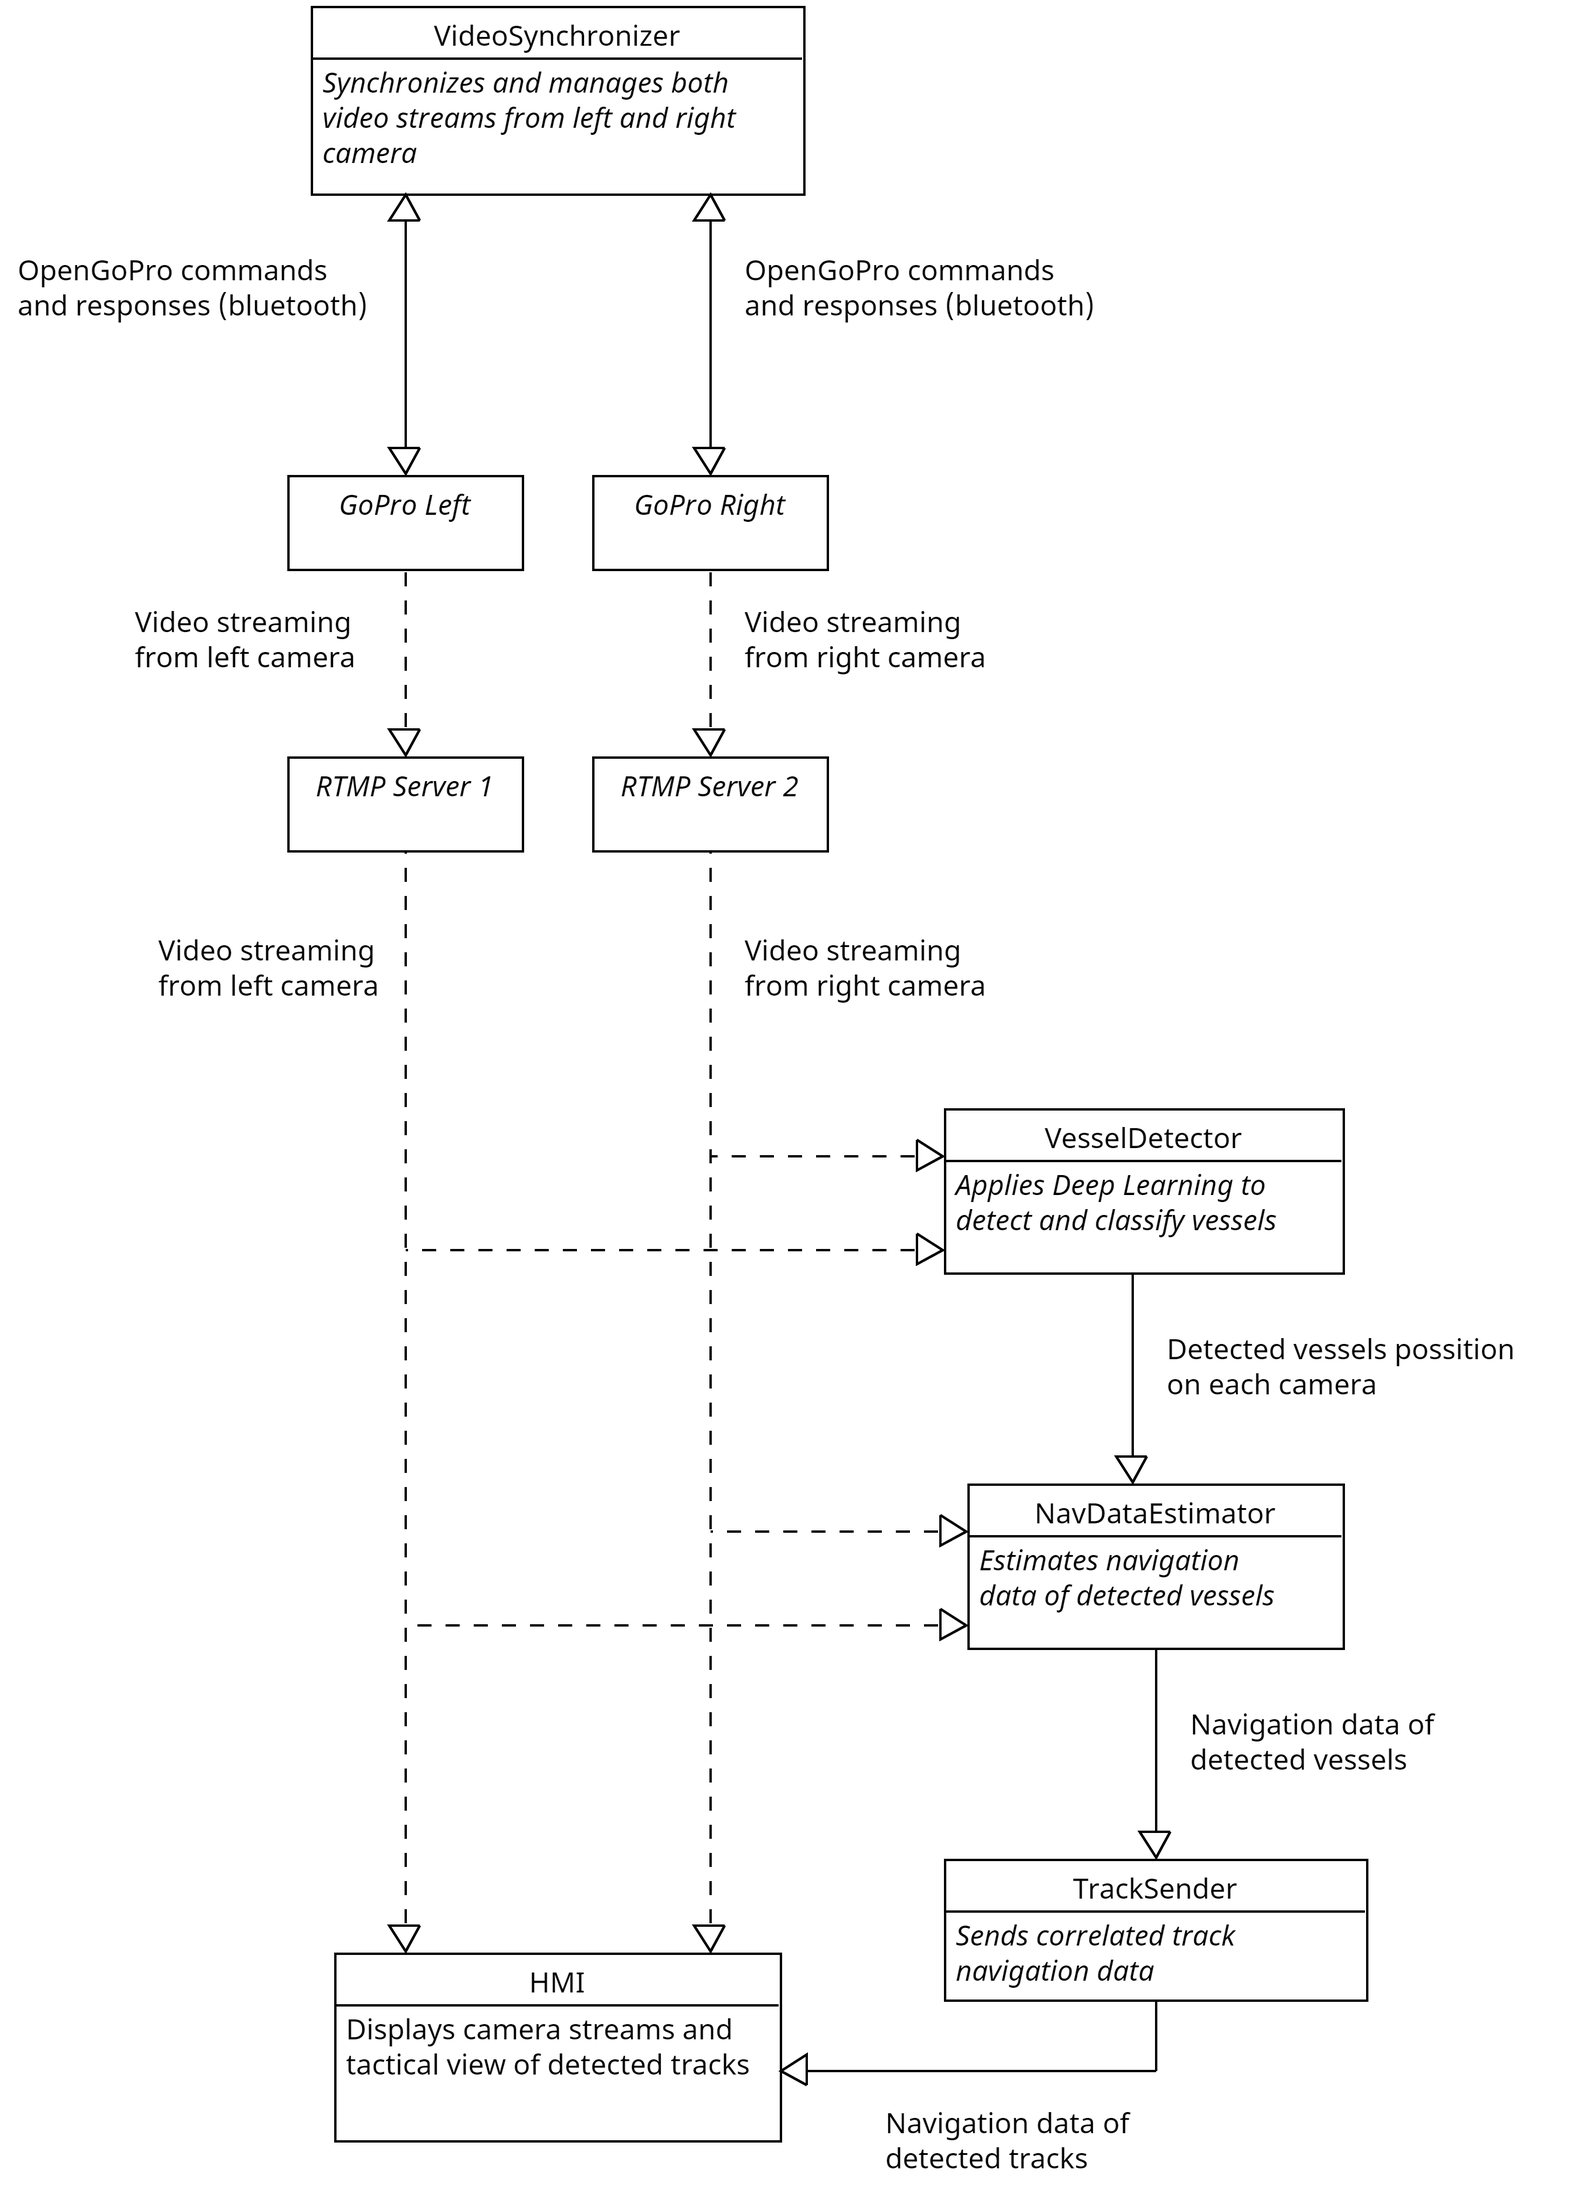
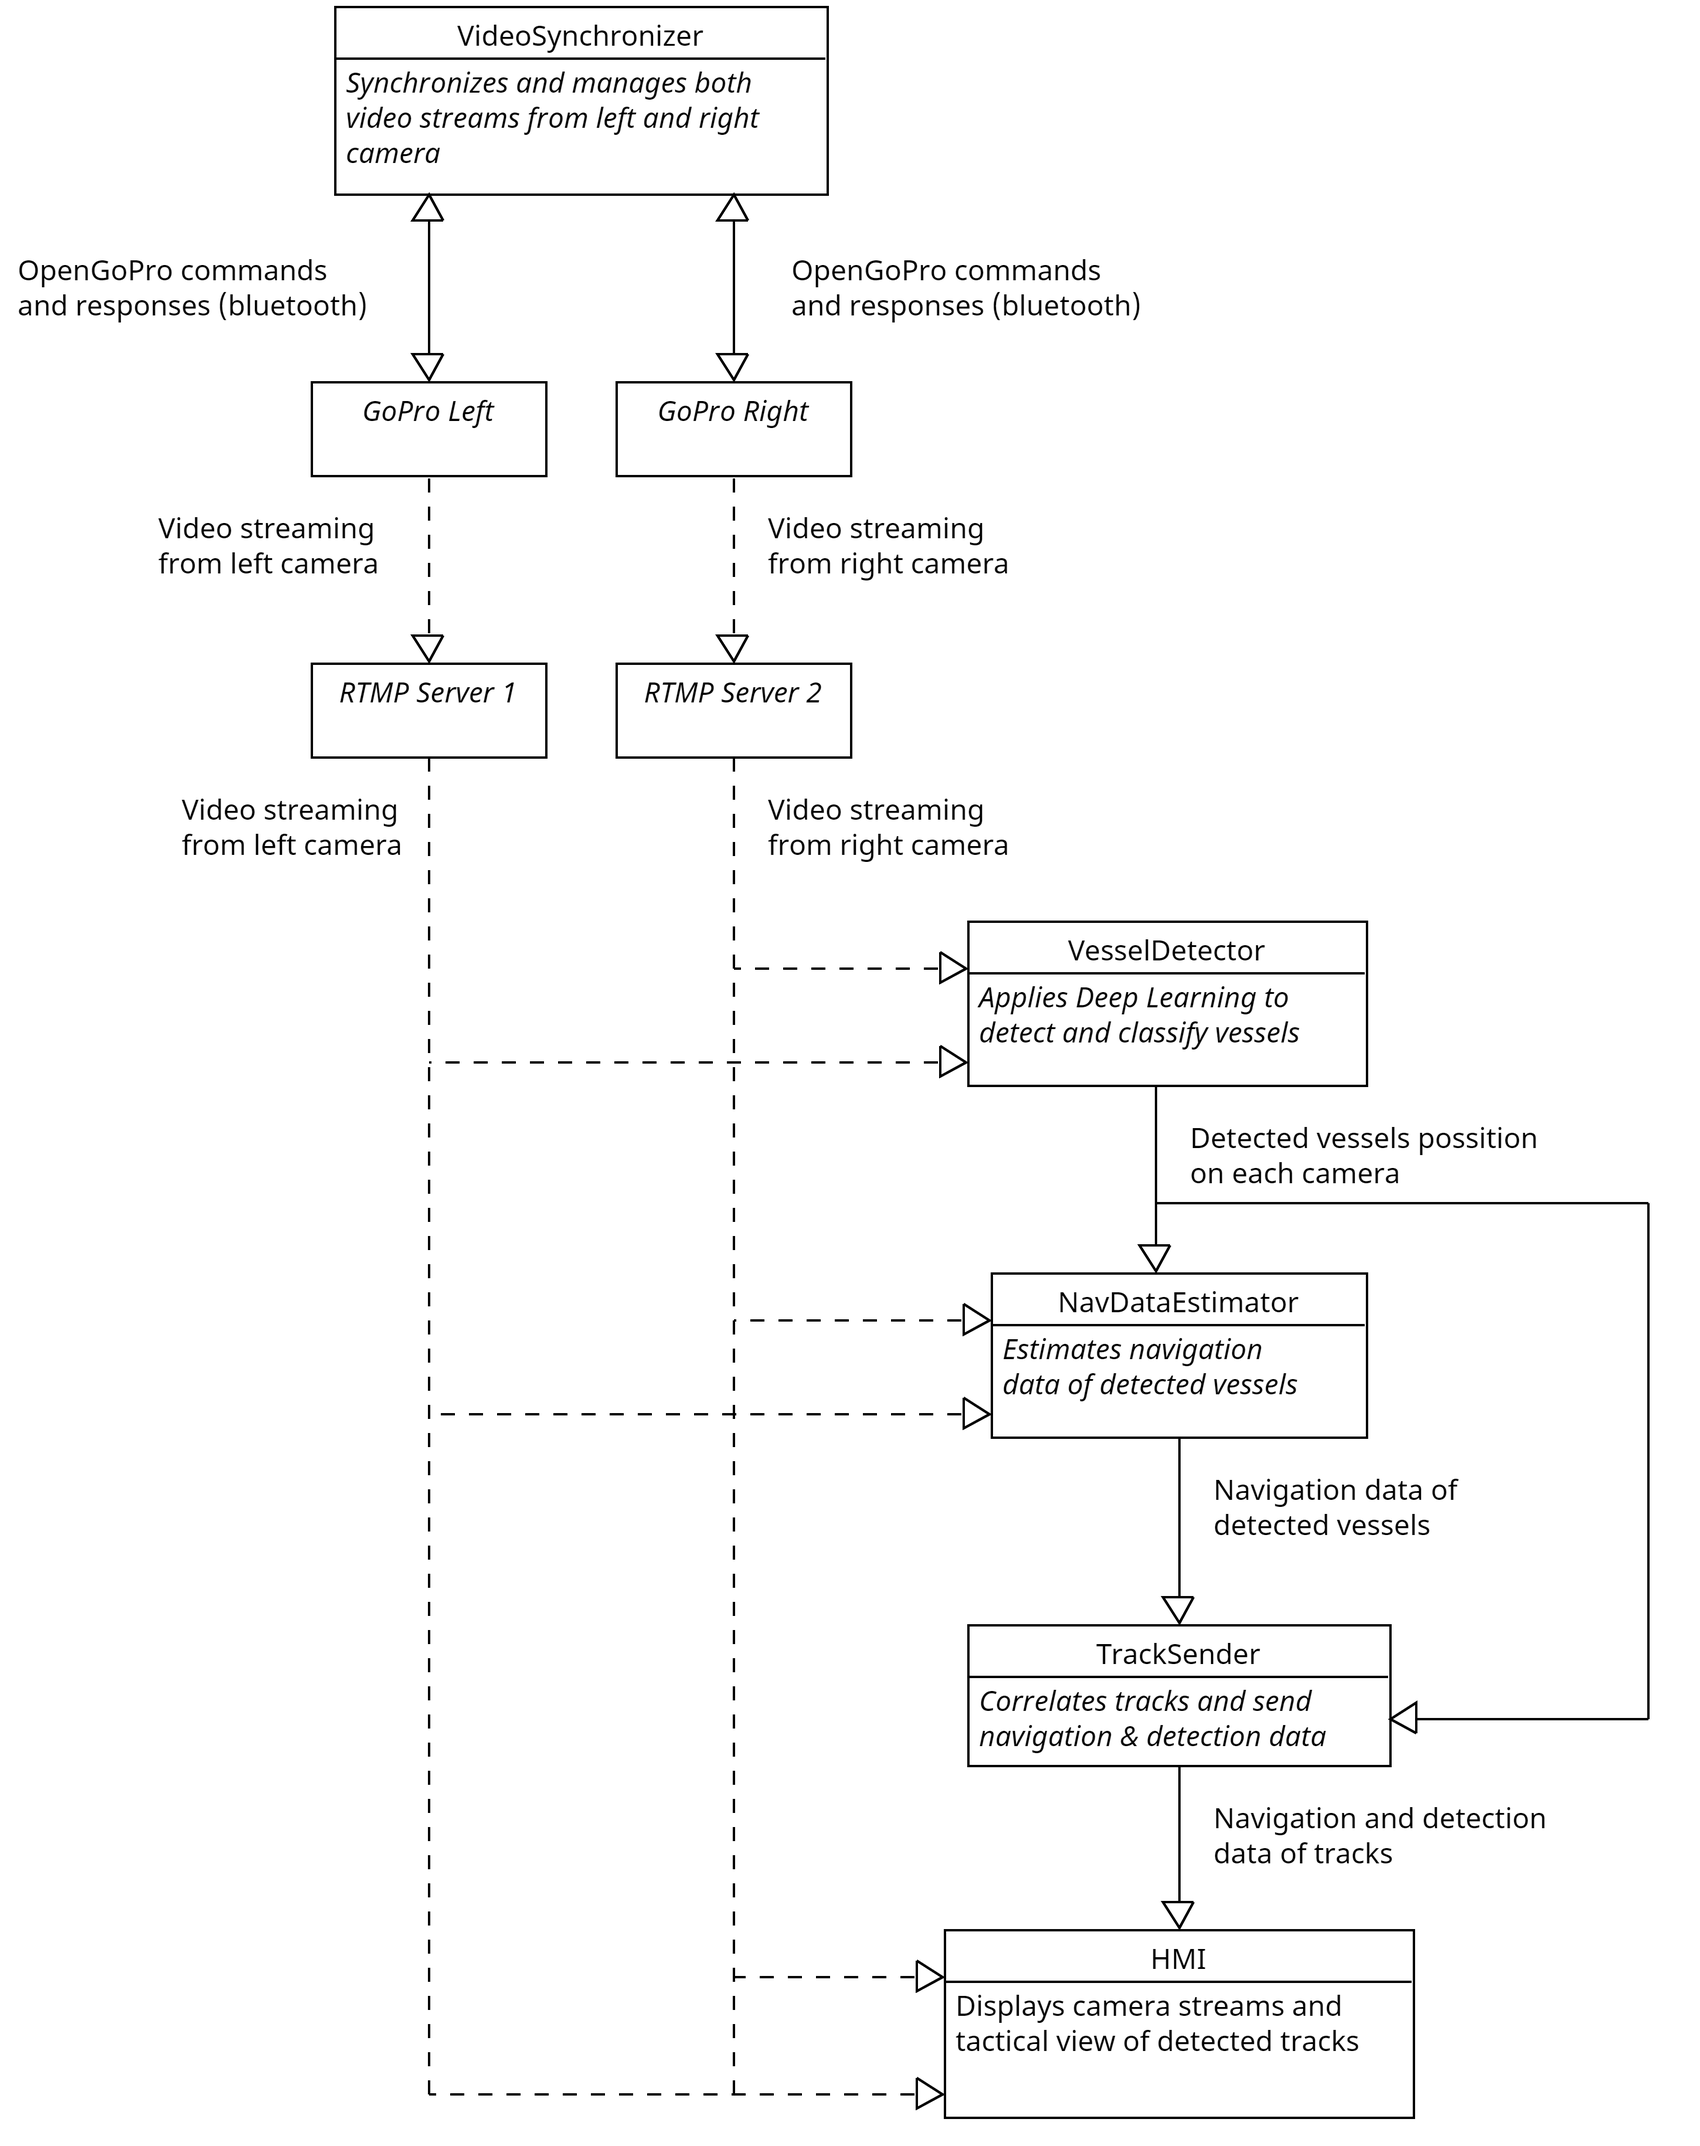
Updated readme and diagrams

diff --git a/README.md b/README.md
@@ -36,6 +36,70 @@ TBD. Here goes the description of each module that composes MADTS.
 ## Communications
 TBD. Here goes the desciption of communication between the modules.
 
+### VesselDetector
+
+|  **Field**  | **Type** | **Values** | **Num bytes** | **endianess** |
+|:-----------:|:--------:|:----------:|:-------------:|:-------------:|
+| point_x     | float    | [0, 1]     | 1             | Little-endian |
+| point_y     | float    | [0, 1]     | 1             | Little-endian |
+| width       | float    | [0, 1]     | 1             | Little-endian |
+| height      | float    | [0, 1]     | 1             | Little-endian |
+| class       | int      | [0, 1]     | 1             | Big-endian    |
+| probability | float    | [0, 1]     | 1             | Little-endian |
+
+* **point_x:** X position (x) of detected vessel (relative to image).
+* **point_y:** Y position (y) of detected vessel (relative to image).
+* **width:** Bounding box width of detected vessel (relative to image).
+* **height:** Bounding box height of detected vessel (relative to image).
+* **class:** Class of detected vessel (0 -> Civil; 1 -> Warship).
+* **probability:** Probability of detection.
+
+### NavDataEstimator
+
+| **Field** | **Type** | **Values** | **Num bytes** | **endianess** |
+|:---------:|:--------:|:----------:|:-------------:|:-------------:|
+| distance  | float    | [0, 18520] | 2             | Little-endian |
+| bearing   | int      | [0, 360]   | 2             | Big-endian    |
+| heading   | int      | [0, 360]   | 2             | Big-endian    |
+| speed     | float    | [0, 999]   | 2             | Little-endian |
+| behavior  | int      | [0, 2]     | 1             | Big-endian    |
+
+* **distance:** Distance from detected vessel to ownship (meters).
+* **bearing:** Bearing of detected vessel (decimal degrees).
+* **heading:** True heading of detected vessel (decimal degrees).
+* **speed:** Speed of detected vessel (knots).
+* **behavior:** 0 -> ALLY, 1 -> HOSTILE, 2 -> UNKNOWN.
+
+### TrackSender
+
+|  **Field**  | **Type** | **Values** | **Num bytes** | **endianess** |
+|:-----------:|:--------:|:----------:|:-------------:|:-------------:|
+| id          | int      | [0, 999]   | 2             | Big-endian    |
+| distance    | float    | [0, 18520] | 2             | Little-endian |
+| bearing     | int      | [0, 360]   | 2             | Big-endian    |
+| heading     | int      | [0, 360]   | 2             | Big-endian    |
+| speed       | float    | [0, 999]   | 2             | Little-endian |
+| behavior    | int      | [0, 2]     | 1             | Big-endian    |
+| point_x     | float    | [0, 1]     | 1             | Little-endian |
+| point_y     | float    | [0, 1]     | 1             | Little-endian |
+| width       | float    | [0, 1]     | 1             | Little-endian |
+| height      | float    | [0, 1]     | 1             | Little-endian |
+| class       | int      | [0, 1]     | 1             | Big-endian    |
+| probability | float    | [0, 1]     | 1             | Little-endian |
+
+* **id:** Track id.
+* **distance:** Distance from track to ownship (meters).
+* **bearing:** Track bearing (decimal degrees).
+* **heading:** Track true heading (decimal degrees).
+* **speed:** Track speed (knots).
+* **behavior:** 0 -> ALLY, 1 -> HOSTILE, 2 -> UNKNOWN.
+* **point_x:** X position (x) of track (relative to image).
+* **point_y:** Y position (y) of track (relative to image).
+* **width:** Bounding box width of track (relative to image).
+* **height:** Bounding box height of track (relative to image).
+* **class:** Class of track (0 -> Civil; 1 -> Warship).
+* **probability:** Probability of detection.
+
 ## Installation
 TBD. Here goes installation instructions.
 
